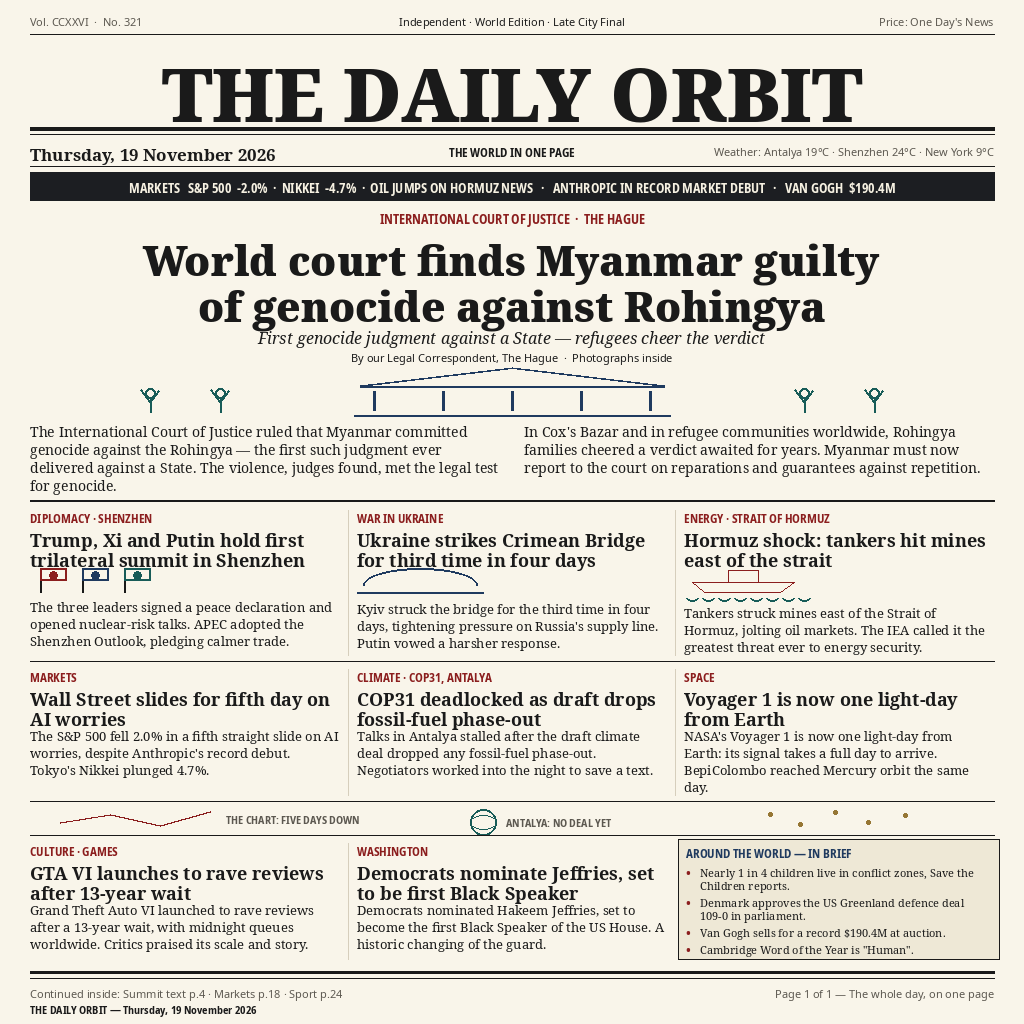
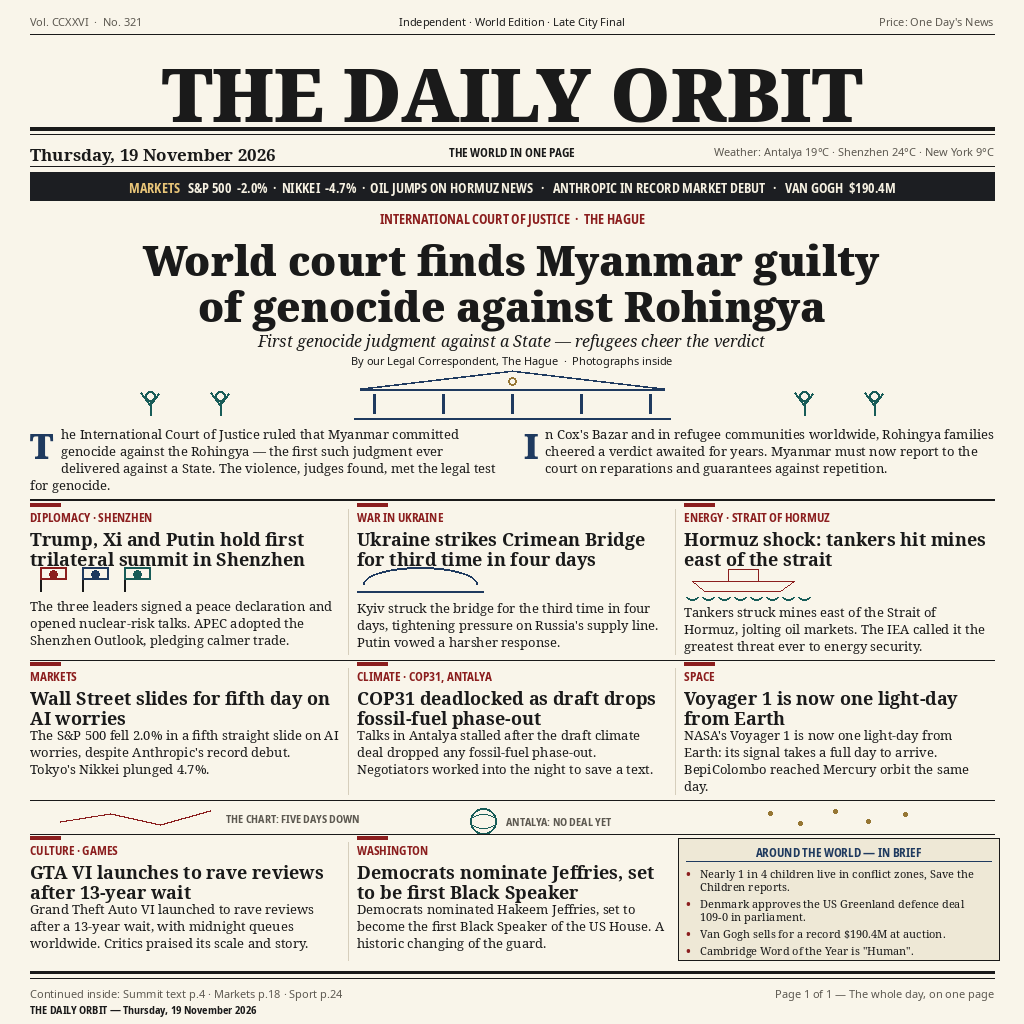
Typography pass: drop caps on the lead story, two-tone ticker, kicker accent ticks, centred briefs header, pediment medallion

diff --git a/draw.py b/draw.py
@@ -61,6 +61,29 @@ def para(x, y, text, fnt, maxw, leading, fill=INK):
         y += leading
     return y
 
+def dropcap_para(x, y, text, fnt, maxw, leading):
+    """Body copy with a broadsheet drop cap: the first letter is set large
+    in navy and the first three lines wrap around it."""
+    cap, rest = text[0], text[1:]
+    cap_f = font(SERIF_BLACK, 34)
+    cap_w = tw(cap, cap_f) + 7
+    d.text((x, y - 3), cap, font=cap_f, fill=NAVY)
+    lines, cur = [], ""
+    for w_ in rest.split():
+        limit = maxw - cap_w if len(lines) < 3 else maxw
+        t = (cur + " " + w_).strip()
+        if tw(t, fnt) <= limit:
+            cur = t
+        else:
+            lines.append(cur)
+            cur = w_
+    if cur:
+        lines.append(cur)
+    for i, ln in enumerate(lines):
+        d.text((x + cap_w if i < 3 else x, y), ln, font=fnt, fill=INK)
+        y += leading
+    return y
+
 def centered(y, text, fnt, fill=INK):
     d.text(((W - tw(text, fnt)) / 2, y), text, font=fnt, fill=fill)
 
@@ -95,10 +118,13 @@ hline(MX, W - MX, 166, INK, 1)
 
 # ---------------------------------------------------------------- ticker
 d.rectangle([MX, 172, W - MX, 200], fill=DARKBAR)
-ticker = ("MARKETS   S&P 500  -2.0%  ·  NIKKEI  -4.7%  ·  OIL JUMPS ON HORMUZ NEWS"
-          "   ·   ANTHROPIC IN RECORD MARKET DEBUT   ·   VAN GOGH  $190.4M")
+ticker_a = "MARKETS   "
+ticker_b = ("S&P 500  -2.0%  ·  NIKKEI  -4.7%  ·  OIL JUMPS ON HORMUZ NEWS"
+            "   ·   ANTHROPIC IN RECORD MARKET DEBUT   ·   VAN GOGH  $190.4M")
 f_tick = font(SANS_CONDB, 13)
-d.text(((W - tw(ticker, f_tick)) / 2, 179), ticker, font=f_tick, fill=(245, 240, 225))
+tx = (W - tw(ticker_a + ticker_b, f_tick)) / 2
+d.text((tx, 179), ticker_a, font=f_tick, fill=(232, 197, 120))
+d.text((tx + tw(ticker_a, f_tick), 179), ticker_b, font=f_tick, fill=(245, 240, 225))
 
 # ---------------------------------------------------------------- main story
 y = 210
@@ -113,7 +139,7 @@ for ln in ["World court finds Myanmar guilty",
            "of genocide against Rohingya"]:
     centered(y, ln, f_main)
     y += 46
-y += 2
+y += 5
 centered(y, "First genocide judgment against a State — refugees cheer the verdict",
          font(SERIF_IT, 16))
 y += 24
@@ -123,6 +149,7 @@ y += 18
 # courthouse illustration: pediment, columns, scales (centred banner)
 ix0, ix1 = MX + 330, W - MX - 330
 # simple pediment + columns
+d.ellipse([(ix0 + ix1) // 2 - 4, y + 6, (ix0 + ix1) // 2 + 4, y + 14], outline=GOLD, width=2)
 d.polygon([(ix0, y + 18), (ix1, y + 18), ((ix0 + ix1) // 2, y)], fill=None, outline=NAVY)
 d.line([(ix0, y + 18), (ix1, y + 18), ((ix0 + ix1) // 2, y), (ix0, y + 18)], fill=NAVY, width=2)
 for i in range(5):
@@ -137,7 +164,7 @@ for fx in (MX + 120, MX + 190, W - MX - 190, W - MX - 120):
     d.line([(fx, y + 34), (fx + 9, y + 22)], fill=TEAL, width=2)
 y += 54
 
-f_body = font(SERIF_REG, 14)
+f_body = font(SERIF_REG, 13)
 colw = (W - 2 * MX - 24) // 2
 main_text = ("The International Court of Justice ruled that Myanmar committed genocide "
              "against the Rohingya — the first such judgment ever delivered against a State. "
@@ -145,8 +172,8 @@ main_text = ("The International Court of Justice ruled that Myanmar committed ge
 main_text2 = ("In Cox's Bazar and in refugee communities worldwide, Rohingya families "
               "cheered a verdict awaited for years. Myanmar must now report to the court "
               "on reparations and guarantees against repetition.")
-y1 = para(MX, y, main_text, f_body, colw, 18)
-y2 = para(MX + colw + 24, y, main_text2, f_body, colw, 18)
+y1 = dropcap_para(MX, y, main_text, f_body, colw, 17)
+y2 = dropcap_para(MX + colw + 24, y, main_text2, f_body, colw, 17)
 y = max(y1, y2) + 6
 hline(MX, W - MX, y, INK, 2)
 y += 10
@@ -157,6 +184,8 @@ XS = [MX, MX + COLW + 18, MX + 2 * (COLW + 18)]
 
 def article(idx, ytop, kick, head, head_size, body, icon=None):
     x = XS[idx]
+    # short red accent tick above the kicker, a classic section marker
+    d.rectangle([x, ytop - 6, x + 30, ytop - 3], fill=RED)
     kicker(x, ytop, kick)
     yy = ytop + 17
     for ln in wrap(head, font(SERIF_BOLD, head_size), COLW):
@@ -259,10 +288,13 @@ briefs = [
     'Cambridge Word of the Year is "Human".',
 ]
 f_brief = font(SERIF_REG, 11)
-box_h = 22 + sum(len(wrap(b, f_brief, COLW - 18)) * 13 + 4 for b in briefs) + 4
+box_h = 24 + sum(len(wrap(b, f_brief, COLW - 18)) * 13 + 4 for b in briefs) + 4
 d.rectangle([bx - 6, row_top - 4, bx + COLW + 6, row_top - 4 + box_h], fill=(238, 232, 214), outline=INK)
-d.text((bx + 2, row_top + 2), "AROUND THE WORLD — IN BRIEF", font=font(SANS_CONDB, 12), fill=NAVY)
-by = row_top + 22
+bh = "AROUND THE WORLD — IN BRIEF"
+d.text((bx + (COLW - tw(bh, font(SANS_CONDB, 12))) / 2, row_top + 2), bh,
+       font=font(SANS_CONDB, 12), fill=NAVY)
+hline(bx + 2, bx + COLW - 2, row_top + 19, NAVY, 1)
+by = row_top + 24
 for b in briefs:
     d.text((bx + 2, by), "•", font=font(SERIF_BOLD, 12), fill=RED)
     by = para(bx + 16, by, b, f_brief, COLW - 18, 13) + 4
